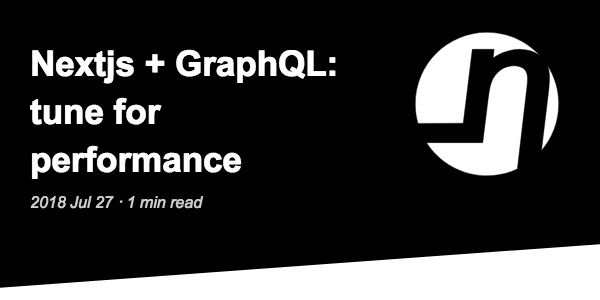
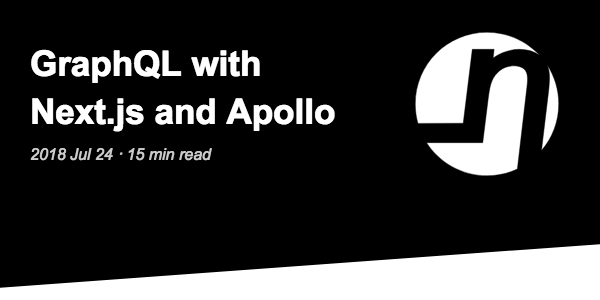
new post!

diff --git a/source/_posts/graphql-with-apollo-react-and-nextjs.md b/source/_posts/graphql-with-apollo-react-and-nextjs.md
@@ -1,7 +1,7 @@
 ---
 title: "GraphQL with Next.js and Apollo"
 description: "Introduction to a modern React stack that is really great to work with"
-date: 2018-07-24
+date: 2018-08-29
 categories:
 - writing
 tags:
@@ -13,14 +13,9 @@ tags:
 - performance
 ---
 
-I've discovered NextJS few months ago, as a solution for Server-side Rendered React, and I'm playing with it since, integrating with various solutions for i18n, state management, routing etc. Some weeks ago I've tried it out with GraphQL, building a [small page](http://bit.ly/starwars-graphql-nextjs) with these tools. This post is the summary I learned about some performance-tuning techniques, I will detail each of them, after a quick intro to the tools I've used:
+I've discovered Next.js few months ago, as a solution for Server-side Rendered React, and I'm playing with it since, integrating with various solutions for i18n, state management, routing etc. Some weeks ago I've tried it out with GraphQL, building a [small page](https://starwars-app-qcusxpjhnl.now.sh/) with these tools.
 
- - Quick Introduction to [Next.js](#nextjs), [GraphQL](#graphql) and [Apollo](#apollo)
- - [Paginating lists](#paginating-lists)
- - [Instant navigation from lists to details with lazy loading the data](#list-to-details)
- - [Subtree pagination of a dataset](#subtree-paging)
-
-
+This and the following posts are the summary I learned about some performance-tuning techniques, I will detail each of them, after a quick intro to the tools I've used.
 
 
 
@@ -266,7 +261,10 @@ Resolvers can fetch whole resource Types, or even fields within Types. You can b
 
 This means the Server needs two things to max out performance and debuggability:
 
-- caching  
+1. caching  
+2. tracing and metrics
+
+**Caching**
 going for a REST API endpoint over and over again for the same data is far from ideal, so caching is really important
 
 Luckily, we can use another feature of the GraphQL language, called _directives_. Using cache directives in the Schema definition, we can tell the server what to cache and for how long - and is it cacheable for everyone (public) or for a certain user session (private).
@@ -290,9 +288,10 @@ type Person@cacheControl(maxAge: 3600) {
 
 ```
 
-_**Note:** cache directives are not the part of the GraphQL language. Its done by [Apollo Cache Control](https://github.com/apollographql/apollo-cache-control) which builds upon the **extendibility** of the language, meaning that you can write your own directives!_
+_**Note:** cache directives are not the part of the GraphQL language. Caching is done by [Apollo Cache Control](https://github.com/apollographql/apollo-cache-control) which builds upon the **extendibility** of GraphQL, meaning that you can write your own directives!_
 
-- tracing and metrics  
+**Tracing and metrics**
+
 the other important capability of a server is measuring how long it takes to fetch data, and debugging any error that may occur
 
 In the Apollo Platform, these are done by the Apollo Engine. You can hook it up with your server, and it will handle caching, metrics and tracing - the data will be available on their engine dashboard.
@@ -338,32 +337,23 @@ export default graphql(QUERY_PERSON_LIST, PersonList)
 
 I personally prefer the plain `graphql` method, becuse later on when you start to split queries, or create more complex ones, you have the option to separate the component rendering logic from the data fetching.
 
-That's for a quick sumary of Next.js, GraphQL and Apollo, let's move on to some more complex use cases.
+I've made a [small app](https://starwars-app-qcusxpjhnl.now.sh/), based on the Star Wars REST API, putting that API behind a GraphQL service, and fetching data from there. (It's deployed on the serverless free hosting called now.sh, might take some time for a cold start) The link to the working site and the example code itself is on my [GitHub](https://github.com/necccc/nextjs-apollo-graphql).
 
-I've made a [small app](http://bit.ly/starwars-graphql-nextjs), based on the Star Wars REST API, putting that API behind a GraphQL service, and fetching data from there. The link to the working site and the example code itself is on my [GitHub](https://github.com/necccc/nextjs-apollo-graphql).
-
-
-
-
-
-
-
+That's for a quick sumary of Next.js, GraphQL and Apollo, I'll show some more complex use cases in the following posts next month. Stay tuned!
 
 
 
 ## Links & resources
 
-the apollo server on github
-the next+graphql app on github
-next
-next tutorials
-remy's next course
-graphql
-https://www.youtube.com/watch?v=2It9NofBWYg
-
-[Designing a GraphQL API by Shopify](https://gist.github.com/swalkinshaw/3a33e2d292b60e68fcebe12b62bbb3e2)
-
-apollo server & engine
-apollo client with react
-next on spectrum.chat
-apollo on spectrum.chat
+- [The Apollo server for this post on GitHub](https://github.com/necccc/starwars-graphql)
+- [The Next + GraphQL app for this post on GitHub](https://github.com/necccc/nextjs-apollo-graphql)
+- [Next.js](https://github.com/zeit/next.js)
+- [Next.js tutorials](https://nextjs.org/learn/)
+- [Remy Sharps's online course on Next.js](https://next.training.leftlogic.com/)
+- [GraphQL](https://graphql.org/)
+- [Video: Scaling GraphQL at Shopify](https://www.youtube.com/watch?v=2It9NofBWYg)
+- [Designing a GraphQL API by Shopify](https://gist.github.com/swalkinshaw/3a33e2d292b60e68fcebe12b62bbb3e2)
+- [Apollo GraphQL Server & Engine](https://www.apollographql.com/)
+- [Apollo GraphQL client with React](https://www.apollographql.com/docs/react/)
+- [Next.js on spectrum.chat](https://spectrum.chat/next-js)
+- [Apollo on spectrum.chat](https://spectrum.chat/apollo)
